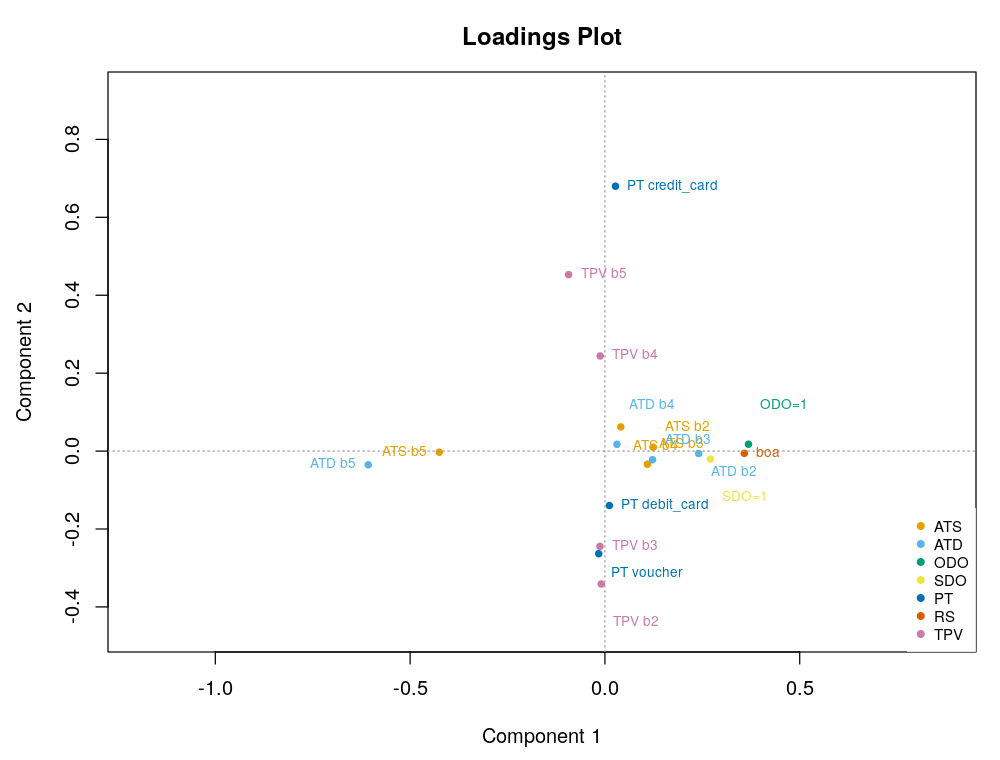
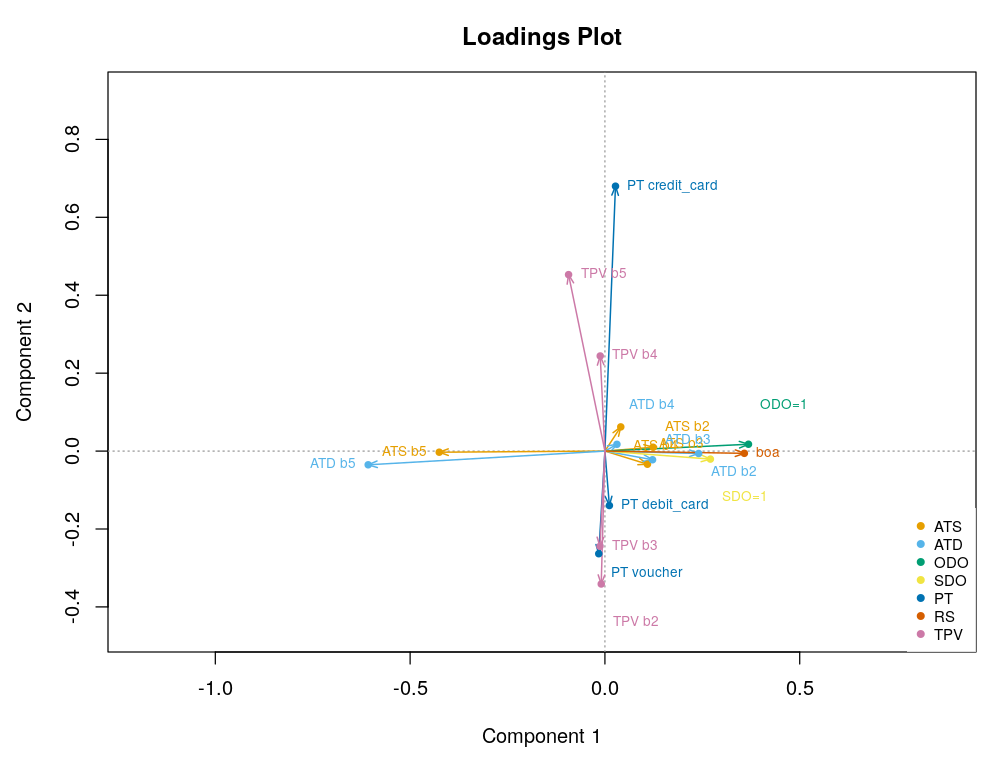
docs: move relatorio ACP logistica para docs/ mantendo nome do arquivo
- Move resultados/relatorio_acp_logistica.html -> docs/relatorio_acp_logistica.html
- Copia figuras ACP Logistica para docs/plots/ (caminhos relativos no HTML ja funcionam)
- Inclui secoes iniciais sem numeracao e ajustes de caminhos no script gerador

Changed region(s): [[0.434, 0.4539, 0.744, 0.7263], [0.372, 0.6053, 0.403, 0.6355]]

diff --git a/docs/relatorio_acp_logistica.html b/docs/relatorio_acp_logistica.html
@@ -30,6 +30,19 @@ ACPNL (Capítulo 5.3). Foram rodadas duas estimativas com 5 componentes: o algor
 de <b>Majoração-Minimização</b> (MM) e o de <b>Relaxamento convexo</b>, ambos de
 Landgraf e Lee (2015), via R <i>package</i> <code>logisticPCA</code> 0.2 (Landgraf).</p>
 
+<h3>Variáveis utilizadas</h3>
+<p>De-para entre os nomes originais da base Olist (<code>dados/olist.csv</code>) e os nomes usados nas análises ACPNL e ACP Logística:</p>
+<div class="peq">Dicionário de variáveis (7 variáveis originais)</div>
+<table><thead><tr><th>Nome original</th><th>Nome usado</th><th>Descrição</th></tr></thead><tbody>
+<tr><td>actual_time_to_shipping</td><td>ATS</td><td>Tempo real de postagem/envio (dias)</td></tr>
+<tr><td>actual_time_to_deliver</td><td>ATD</td><td>Tempo real de entrega (dias)</td></tr>
+<tr><td>order_delivered_onschedule</td><td>ODO</td><td>Entrega no prazo (0/1)</td></tr>
+<tr><td>shipping_delivered_onschedule</td><td>SDO</td><td>Postagem no prazo (0/1)</td></tr>
+<tr><td>payment_type</td><td>PT</td><td>Tipo de pagamento (boleto, credit_card, debit_card, voucher)</td></tr>
+<tr><td>review_score</td><td>RS</td><td>Avaliação da compra (1 a 5)</td></tr>
+<tr><td>total_payment_value</td><td>TPV</td><td>Valor total do pagamento (R$)</td></tr>
+</tbody></table>
+
 <h2>1. Codificação binária dos dados</h2>
 <p>A ACP Logística modela dados <b>binários</b> (Bernoulli). As 7 variáveis da ACPNL
 foram recodificadas em 18 colunas binárias. As variáveis métricas mantêm o binning
@@ -68,12 +81,12 @@ relaxada H completa; MM é estritamente rank-5). A comparação justa entre os d
 <h2>4. Resultados — algoritmo MM (script <code>acpl_fit_5d_mm.r</code>)</h2>
 <p>Convergência em <b>48 iterações</b>; desvio explicado (k = 5) = <b>0,5956</b>.</p>
 
-<img src="file:///C:/projects/pca-paper/resultados/plots/acpl_fig_mm5d_scree.png">
+<img src="plots/acpl_fig_mm5d_scree.png">
 <div class="fig-legenda">Figura 1 — Scree plot, MM (k = 1..7; linha pontilhada: k = 5)</div>
 
 <h3>4.1 Cargas (componentes 1 e 2)</h3>
 <div class="peq">Tabela 3 — Loadings MM, comps 1–2 (U, 18 colunas binárias)</div>
-<table><thead><tr><th>Variável</th><th>Comp. 1</th><th>Comp. 2</th></tr></thead><tbody><tr><td>ATS b2</td><td>0.0241</td><td>0.0296</td></tr><tr><td>ATS b3</td><td>0.316</td><td>-0.222</td></tr><tr><td>ATS b4</td><td>0.0398</td><td>-0.00563</td></tr><tr><td>ATS b5</td><td>-0.336</td><td>0.226</td></tr><tr><td>ATD b2</td><td>0.378</td><td>-0.252</td></tr><tr><td>ATD b3</td><td>-0.104</td><td>0.0228</td></tr><tr><td>ATD b4</td><td>0.127</td><td>-0.0378</td></tr><tr><td>ATD b5</td><td>-0.420</td><td>0.262</td></tr><tr><td>ODO=1</td><td>0.257</td><td>-0.159</td></tr><tr><td>SDO=1</td><td>0.184</td><td>-0.141</td></tr><tr><td>PT credit_card</td><td>0.312</td><td>0.454</td></tr><tr><td>PT debit_card</td><td>-0.0499</td><td>-0.0803</td></tr><tr><td>PT voucher</td><td>-0.108</td><td>-0.154</td></tr><tr><td>boa</td><td>0.211</td><td>-0.135</td></tr><tr><td>TPV b2</td><td>-0.197</td><td>-0.286</td></tr><tr><td>TPV b3</td><td>-0.176</td><td>-0.294</td></tr><tr><td>TPV b4</td><td>0.234</td><td>0.359</td></tr><tr><td>TPV b5</td><td>0.241</td><td>0.410</td></tr></tbody></table>
+<table><thead><tr><th>Variável</th><th>Comp. 1</th><th>Comp. 2</th></tr></thead><tbody><tr><td>ATS b2</td><td>0.0241</td><td>-0.0296</td></tr><tr><td>ATS b3</td><td>0.316</td><td>0.222</td></tr><tr><td>ATS b4</td><td>0.0398</td><td>0.00563</td></tr><tr><td>ATS b5</td><td>-0.336</td><td>-0.226</td></tr><tr><td>ATD b2</td><td>0.378</td><td>0.252</td></tr><tr><td>ATD b3</td><td>-0.104</td><td>-0.0228</td></tr><tr><td>ATD b4</td><td>0.127</td><td>0.0378</td></tr><tr><td>ATD b5</td><td>-0.420</td><td>-0.262</td></tr><tr><td>ODO=1</td><td>0.257</td><td>0.159</td></tr><tr><td>SDO=1</td><td>0.184</td><td>0.141</td></tr><tr><td>PT credit_card</td><td>0.312</td><td>-0.454</td></tr><tr><td>PT debit_card</td><td>-0.0499</td><td>0.0803</td></tr><tr><td>PT voucher</td><td>-0.108</td><td>0.154</td></tr><tr><td>boa</td><td>0.211</td><td>0.135</td></tr><tr><td>TPV b2</td><td>-0.197</td><td>0.286</td></tr><tr><td>TPV b3</td><td>-0.176</td><td>0.294</td></tr><tr><td>TPV b4</td><td>0.234</td><td>-0.359</td></tr><tr><td>TPV b5</td><td>0.241</td><td>-0.410</td></tr></tbody></table>
 
 <p><b>Componente 1 — qualidade da entrega.</b> Polos bem definidos: no lado positivo,
 cartão de crédito (+0,312), pedido entregue no prazo (+0,257), postagem no prazo
@@ -88,7 +101,7 @@ cartão de crédito (TPV b4 +0,359, TPV b5 +0,410, credit_card +0,454) de ticket
 não de logística — estrutura que a ACPNL não isola, porque lá o TPV foi tratado como
 ordinal monotônico e o PT como nominal.</p>
 
-<img src="file:///C:/projects/pca-paper/resultados/plots/acpl_fig_mm5d_loadplot.png">
+<img src="plots/acpl_fig_mm5d_loadplot.png">
 <div class="fig-legenda">Figura 2 — Loadings plot MM, comps 1–2 (cores por variável)</div>
 
 <h3>4.2 Quantificações (transplot análogo)</h3>
@@ -116,7 +129,7 @@ ordinal da ACPNL força a ser reta.</li>
 <li><b>RS:</b> contraste único (−0,85), separação forte entre boa/ruim.</li>
 </ul>
 
-<img src="file:///C:/projects/pca-paper/resultados/plots/acpl_fig_mm5d_transplot.png">
+<img src="plots/acpl_fig_mm5d_transplot.png">
 <div class="fig-legenda">Figura 3 — Transplot análogo MM (log-odds médio por categoria; ref. = 0)</div>
 
 <div class="secao"></div>
@@ -124,7 +137,7 @@ ordinal da ACPNL força a ser reta.</li>
 <p>Convergência em <b>27 iterações</b>; desvio explicado = <b>0,6872</b> (medido na
 solução relaxada; ver ressalva da Seção 3).</p>
 
-<img src="file:///C:/projects/pca-paper/resultados/plots/acpl_fig_cvx5d_scree.png">
+<img src="plots/acpl_fig_cvx5d_scree.png">
 <div class="fig-legenda">Figura 4 — Scree plot, convexo (k = 1..7; linha pontilhada: k = 5)</div>
 
 <h3>5.1 Cargas (componentes 1 e 2)</h3>
@@ -142,7 +155,7 @@ com TPV b5 (+0,453) e TPV b4 (+0,244); voucher (−0,263), debit_card (−0,140)
 TPV b2 (−0,341) / TPV b3 (−0,244) no negativo. Confirma a leitura da MM: existe
 uma dimensão latente de <b>valor do pedido associada ao meio de pagamento</b>.</p>
 
-<img src="file:///C:/projects/pca-paper/resultados/plots/acpl_fig_cvx5d_loadplot.png">
+<img src="plots/acpl_fig_cvx5d_loadplot.png">
 <div class="fig-legenda">Figura 5 — Loadings plot convexo, comps 1–2</div>
 
 <h3>5.2 Quantificações (transplot análogo)</h3>
@@ -163,7 +176,7 @@ linearidade do valor do pedido é robusta entre algoritmos.</li>
 (−0,35/−0,56/−0,37), refletindo a distribuição mais suave da solução relaxada.</li>
 </ul>
 
-<img src="file:///C:/projects/pca-paper/resultados/plots/acpl_fig_cvx5d_transplot.png">
+<img src="plots/acpl_fig_cvx5d_transplot.png">
 <div class="fig-legenda">Figura 6 — Transplot análogo convexo (log-odds médio por categoria; ref. = 0)</div>
 
 <div class="secao"></div>
